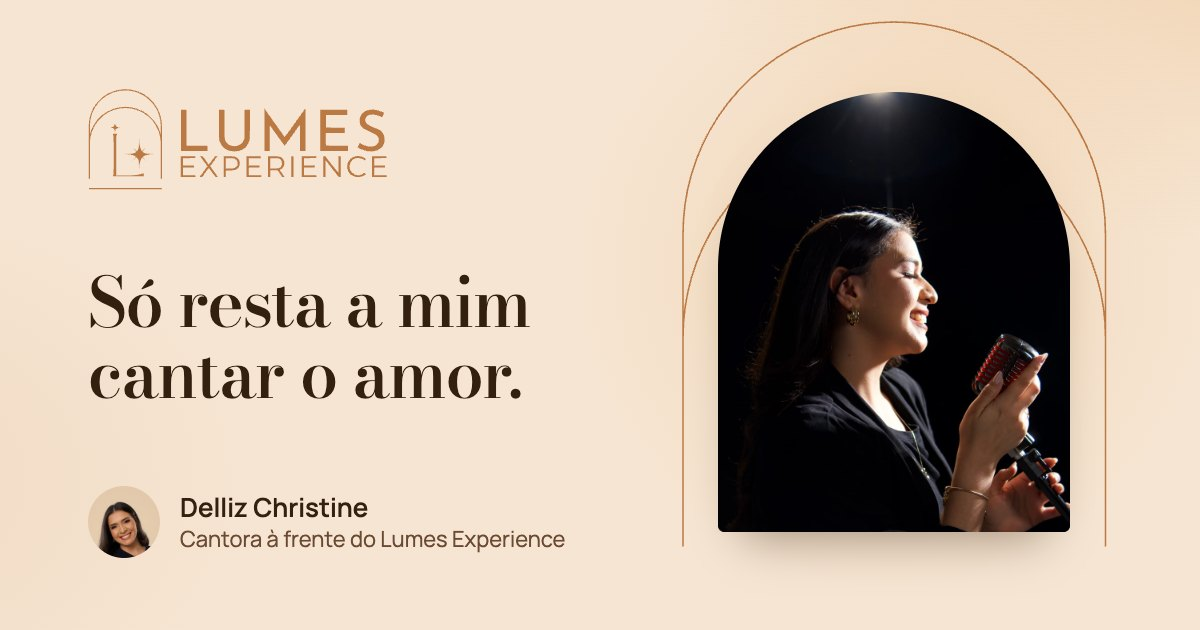
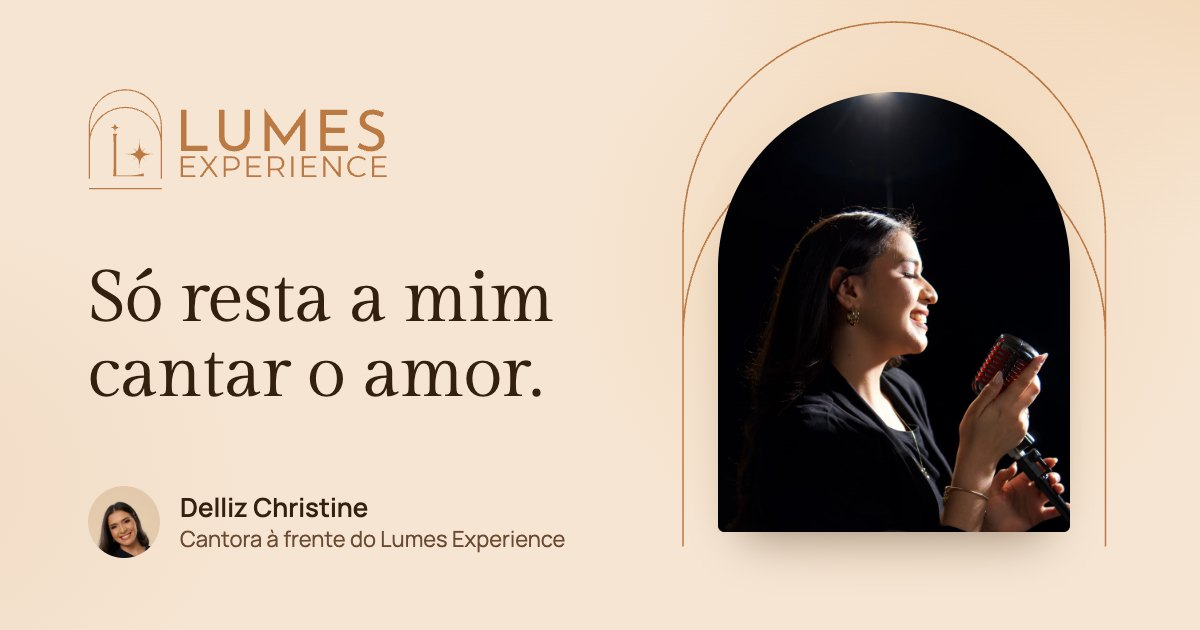
feat(site): títulos da página inicial em Gilda Display
- Escolha do dono entre Bodoni leve, Cormorant, Gilda e Marcellus: a Gilda
  Display (peso 400, "1" com bandeira) entra nos títulos e textos em serifa
  da página inicial, com reservas medidas (Georgia 100,9%, Times 110,5%);
  o blog continua em Bodoni Moda.
- Sai a prévia de fontes (?fonte=) e as fontes que não foram escolhidas.
- checar.mjs aceita só a diferença de --serif entre a página e o blog;
  imagem de compartilhamento da página inicial com o mote em Gilda;
  DESIGN.md e design.json atualizados.

Changed region(s): [[0.0617, 0.4222, 0.4625, 0.5429], [0.0617, 0.573, 0.4625, 0.6333]]

diff --git a/index.html b/index.html
@@ -37,8 +37,6 @@
     try {
       const busca = new URLSearchParams(location.search);
       if (busca.has('previa')) document.documentElement.classList.add('previa');
-      // Prévia de fontes para o dono escolher (04/11/2026): ?fonte=bodoni-leve|cormorant|gilda|marcellus.
-      if (/^(atual|bodoni-leve|cormorant|gilda|marcellus)$/.test(busca.get('fonte') || '')) document.documentElement.dataset.fonte = busca.get('fonte');
       const forcar = busca.has('abertura');
       let vista = 0;
       try { vista = Number(localStorage.getItem('abertura-vista')) || 0; } catch (e) {}
@@ -49,7 +47,7 @@
     } catch (e) {}
   </script>
 
-  <link rel="preload" href="assets/fonts/bodoni-moda.woff2" as="font" type="font/woff2" crossorigin>
+  <link rel="preload" href="assets/fonts/gilda-display.woff2" as="font" type="font/woff2" crossorigin>
   <link rel="preload" href="assets/fonts/manrope.woff2" as="font" type="font/woff2" crossorigin>
 
   <!-- Todo fato aqui precisa estar escrito, igual, no texto visível da página (regra do Google). -->
@@ -364,10 +362,12 @@
   </script>
 
   <style>
+    /* Títulos em Gilda Display (escolha do dono, 04/11/2026, entre Bodoni leve, Cormorant, Gilda e Marcellus).
+       Ela só tem o peso 400 e o "1" com bandeira; o blog continua em Bodoni Moda. */
     @font-face {
-      font-family: "Bodoni Moda";
-      src: url("assets/fonts/bodoni-moda.woff2") format("woff2");
-      font-weight: 400 700;
+      font-family: "Gilda Display";
+      src: url("assets/fonts/gilda-display.woff2") format("woff2");
+      font-weight: 400;
       font-style: normal;
       font-display: swap;
     }
@@ -379,21 +379,11 @@
       font-display: swap;
     }
 
-    /* Prévia de fontes dos títulos (?fonte=...). Sem o parâmetro, nenhuma destas é baixada. */
-    @font-face { font-family: "Cormorant Garamond"; src: url("assets/fonts/cormorant-garamond.woff2") format("woff2"); font-weight: 300 700; font-display: swap; }
-    @font-face { font-family: "Gilda Display"; src: url("assets/fonts/gilda-display.woff2") format("woff2"); font-weight: 400; font-display: swap; }
-    @font-face { font-family: "Marcellus"; src: url("assets/fonts/marcellus.woff2") format("woff2"); font-weight: 400; font-display: swap; }
-
-    /* O "1" do Bodoni Moda é idêntico ao "l" ("15 anos" lia "l5 anos"), e a fonte não tem alternativa.
-       Só esse algarismo vem de uma serifa do sistema, que tem a bandeira no alto; o resto continua Bodoni. */
-    @font-face { font-family: "Bodoni um"; src: local("Times New Roman"), local("TimesNewRomanPSMT"), local("Liberation Serif"); unicode-range: U+0031; size-adjust: 112%; }
-    @font-face { font-family: "Bodoni um Noto"; src: local("Noto Serif"), local("NotoSerif-Regular"); unicode-range: U+0031; size-adjust: 100%; }
-
-    /* Fontes do sistema com a largura ajustada à fonte da página: se ela chegar tarde,
-       as linhas quebram no mesmo lugar e o botão principal não pula (medido: 46 px sem isso). */
-    @font-face { font-family: "Bodoni reserva"; src: local("Noto Serif"), local("NotoSerif-Regular"); size-adjust: 96.5%; }
-    @font-face { font-family: "Bodoni reserva Georgia"; src: local("Georgia"); size-adjust: 103%; }
-    @font-face { font-family: "Bodoni reserva Times"; src: local("Times New Roman"), local("TimesNewRomanPSMT"), local("Liberation Serif"); size-adjust: 114.7%; }
+    /* Fontes do sistema com a largura ajustada à fonte da página: se ela chegar tarde, as linhas quebram no mesmo
+       lugar e nada pula (medido em 04/11/2026: a Gilda tem 100,9% da Georgia e 110,5% da Times). */
+    @font-face { font-family: "Gilda reserva"; src: local("Noto Serif"), local("NotoSerif-Regular"); size-adjust: 92.9%; }
+    @font-face { font-family: "Gilda reserva Georgia"; src: local("Georgia"); size-adjust: 100.9%; }
+    @font-face { font-family: "Gilda reserva Times"; src: local("Times New Roman"), local("TimesNewRomanPSMT"), local("Liberation Serif"); size-adjust: 110.5%; }
     @font-face { font-family: "Manrope reserva"; src: local("Roboto"), local("Roboto-Regular"); size-adjust: 102.5%; }
     @font-face { font-family: "Manrope reserva Arial"; src: local("Arial"), local("ArialMT"), local("Helvetica"), local("Liberation Sans"); size-adjust: 103.3%; }
 
@@ -449,7 +439,8 @@
         radial-gradient(circle at 86% 60%, color-mix(in srgb, var(--luz-clara) 70%, transparent) 0 1.5px, transparent 2.5px),
         radial-gradient(ellipse at 50% 100%, color-mix(in srgb, var(--luz) 18%, transparent), transparent 70%);
 
-      --serif: "Bodoni um", "Bodoni um Noto", "Bodoni Moda", "Bodoni reserva", "Bodoni reserva Georgia", "Bodoni reserva Times", serif;
+      --serif: "Gilda Display", "Gilda reserva", "Gilda reserva Georgia", "Gilda reserva Times", serif;
+      --peso-titulo: 400;
       --sans: "Manrope", "Manrope reserva", "Manrope reserva Arial", sans-serif;
 
       --largura: 72rem;
@@ -460,33 +451,6 @@
 
     *, *::before, *::after { box-sizing: border-box; }
 
-    /* ---------- Prévia de fontes (?fonte=...) ---------- */
-    [data-fonte="bodoni-leve"] { --peso-titulo: 400; }
-    [data-fonte="cormorant"] { --serif: "Cormorant Garamond", "Bodoni reserva Georgia", serif; --peso-titulo: 600; }
-    [data-fonte="gilda"] { --serif: "Gilda Display", "Bodoni reserva Georgia", serif; --peso-titulo: 400; }
-    [data-fonte="marcellus"] { --serif: "Marcellus", "Bodoni reserva Georgia", serif; --peso-titulo: 400; }
-    [data-fonte] :is(h1, h2, h3, .compromisso__nome, .depoimento blockquote, .pergunta summary, .amostra figcaption, .assinatura-voz, .delliz__texto p:first-child, .historia__fecho) { font-synthesis: none; }
-    /* A Cormorant desenha pequeno: sobe um pouco para ficar do mesmo tamanho visual. */
-    [data-fonte="cormorant"] :is(h1, h2, h3) { font-size-adjust: 0.5; }
-    .escolha-fonte { display: none; }
-    [data-fonte] .escolha-fonte {
-      position: fixed;
-      z-index: 40;
-      top: 0.5rem;
-      left: 50%;
-      translate: -50% 0;
-      display: flex;
-      flex-wrap: wrap;
-      justify-content: center;
-      gap: 0.25rem;
-      max-width: calc(100vw - 1rem);
-      padding: 0.35rem;
-      border-radius: 1.25rem;
-      background: var(--tinta-funda);
-      font: 600 0.8125rem/1 var(--sans);
-    }
-    .escolha-fonte a { display: inline-flex; align-items: center; min-height: 2.25rem; padding: 0 0.75rem; border-radius: 999px; color: var(--noite-texto); text-decoration: none; }
-    .escolha-fonte a[aria-current] { background: var(--luz); color: var(--tinta-funda); }
 
     /* O que o navegador desenha sozinho também segue a marca: barra de rolagem, toque, seleção, cursor. */
     html {
@@ -539,9 +503,10 @@
       text-wrap: balance;
       overflow-wrap: break-word;
       font-variant-numeric: lining-nums;
+      font-synthesis: none;
     }
 
-    /* O tamanho óptico automático do Bodoni deixa o fio fino demais abaixo de ~60px ("BH" vira "BII"). */
+    /* O tamanho óptico (opsz) só vale para fontes variáveis; a Gilda o ignora, e a regra fica para o caso de voltar ao Bodoni. */
     h1, h2, h3, .marca, .compromisso__nome, .depoimento blockquote, .pergunta summary, .amostra figcaption, .assinatura-voz {
       font-variation-settings: "opsz" var(--opsz, 24);
     }
@@ -1499,10 +1464,6 @@
 </head>
 <body>
   <a class="pular" href="#principal">Pular para o conteúdo</a>
-  <!-- Prévia de fontes para o dono (só aparece com ?fonte=...). Sai depois da escolha. -->
-  <nav class="escolha-fonte" aria-label="Prévia de fontes">
-    <a href="?fonte=atual#principal">Atual</a><a href="?fonte=bodoni-leve#principal">Bodoni leve</a><a href="?fonte=cormorant#principal">Cormorant</a><a href="?fonte=gilda#principal">Gilda</a><a href="?fonte=marcellus#principal">Marcellus</a>
-  </nav>
 
   <svg class="icones" width="0" height="0" aria-hidden="true">
     <symbol id="icone-whatsapp" viewBox="0 0 24 24"><path d="M17.472 14.382c-.297-.149-1.758-.867-2.03-.967-.273-.099-.471-.148-.67.15-.197.297-.767.966-.94 1.164-.173.199-.347.223-.644.075-.297-.15-1.255-.463-2.39-1.475-.883-.788-1.48-1.761-1.653-2.059-.173-.297-.018-.458.13-.606.134-.133.298-.347.446-.52.149-.174.198-.298.298-.497.099-.198.05-.371-.025-.52-.075-.149-.669-1.612-.916-2.207-.242-.579-.487-.5-.669-.51-.173-.008-.371-.01-.57-.01-.198 0-.52.074-.792.372-.272.297-1.04 1.016-1.04 2.479 0 1.462 1.065 2.875 1.213 3.074.149.198 2.096 3.2 5.077 4.487.709.306 1.262.489 1.694.625.712.227 1.36.195 1.871.118.571-.085 1.758-.719 2.006-1.413.248-.694.248-1.289.173-1.413-.074-.124-.272-.198-.57-.347m-5.421 7.403h-.004a9.87 9.87 0 01-5.031-1.378l-.361-.214-3.741.982.998-3.648-.235-.374a9.86 9.86 0 01-1.51-5.26c.001-5.45 4.436-9.884 9.888-9.884 2.64 0 5.122 1.03 6.988 2.898a9.825 9.825 0 012.893 6.994c-.003 5.45-4.437 9.884-9.885 9.884m8.413-18.297A11.815 11.815 0 0012.05 0C5.495 0 .16 5.335.157 11.892c0 2.096.547 4.142 1.588 5.945L.057 24l6.305-1.654a11.882 11.882 0 005.683 1.448h.005c6.554 0 11.89-5.335 11.893-11.893a11.821 11.821 0 00-3.48-8.413Z"/></symbol>
@@ -1864,9 +1825,6 @@ Momentos com música:</p>
 
       const reduzirMovimento = window.matchMedia('(prefers-reduced-motion: reduce)').matches;
 
-      // Prévia de fontes: marca a opção atual na barrinha.
-      const fonte = document.documentElement.dataset.fonte;
-      if (fonte) document.querySelectorAll('.escolha-fonte a').forEach((a) => { if (a.href.includes(`fonte=${fonte}#`)) a.setAttribute('aria-current', 'true'); });
 
       // Barra fixa no celular: aparece sempre que nenhum outro botão do WhatsApp está inteiro na tela, inclusive
       // na primeira dobra de um celular baixo (no Safari com as barras à mostra, o botão do topo pode ficar abaixo

diff --git a/DESIGN.md b/DESIGN.md
@@ -33,30 +33,30 @@ colors:
   anoitecer-3: "#8A4D24"
 typography:
   display:
-    fontFamily: "Bodoni um, Bodoni um Noto, Bodoni Moda, Bodoni reserva, Bodoni reserva Georgia, Bodoni reserva Times, serif"
+    fontFamily: "Gilda Display, Gilda reserva, Gilda reserva Georgia, Gilda reserva Times, serif"
     fontSize: "clamp(2.75rem, 1.9rem + 3.6vw, 3.25rem)"
-    fontWeight: 500
+    fontWeight: 400
     lineHeight: 1.02
     letterSpacing: "-0.015em"
     fontVariation: "\"opsz\" 48"
   display-largo:
-    fontFamily: "Bodoni um, Bodoni um Noto, Bodoni Moda, Bodoni reserva, Bodoni reserva Georgia, Bodoni reserva Times, serif"
+    fontFamily: "Gilda Display, Gilda reserva, Gilda reserva Georgia, Gilda reserva Times, serif"
     fontSize: "clamp(3.75rem, 1.25rem + 3.8vw, 4.75rem)"
-    fontWeight: 500
+    fontWeight: 400
     lineHeight: 1.02
     letterSpacing: "-0.015em"
     fontVariation: "\"opsz\" 48"
   porta:
-    fontFamily: "Bodoni um, Bodoni um Noto, Bodoni Moda, Bodoni reserva, Bodoni reserva Georgia, Bodoni reserva Times, serif"
+    fontFamily: "Gilda Display, Gilda reserva, Gilda reserva Georgia, Gilda reserva Times, serif"
     fontSize: "clamp(2.125rem, 1.4rem + 3vw, 3.75rem)"
-    fontWeight: 500
+    fontWeight: 400
     lineHeight: 1.04
     letterSpacing: "-0.01em"
     fontVariation: "\"opsz\" 48"
   evento:
-    fontFamily: "Bodoni um, Bodoni um Noto, Bodoni Moda, Bodoni reserva, Bodoni reserva Georgia, Bodoni reserva Times, serif"
+    fontFamily: "Gilda Display, Gilda reserva, Gilda reserva Georgia, Gilda reserva Times, serif"
     fontSize: "clamp(2rem, 1.45rem + 2.4vw, 3.25rem)"
-    fontWeight: 500
+    fontWeight: 400
     lineHeight: 1.04
     letterSpacing: "-0.01em"
     fontVariation: "\"opsz\" 48"
@@ -68,15 +68,15 @@ typography:
     letterSpacing: "-0.01em"
     fontVariation: "\"opsz\" 48"
   headline:
-    fontFamily: "Bodoni um, Bodoni um Noto, Bodoni Moda, Bodoni reserva, Bodoni reserva Georgia, Bodoni reserva Times, serif"
+    fontFamily: "Gilda Display, Gilda reserva, Gilda reserva Georgia, Gilda reserva Times, serif"
     fontSize: "clamp(2rem, 1.5rem + 2.2vw, 3rem)"
-    fontWeight: 500
+    fontWeight: 400
     lineHeight: 1.08
     fontVariation: "\"opsz\" 24"
   citacao-grande:
-    fontFamily: "Bodoni um, Bodoni um Noto, Bodoni Moda, Bodoni reserva, Bodoni reserva Georgia, Bodoni reserva Times, serif"
+    fontFamily: "Gilda Display, Gilda reserva, Gilda reserva Georgia, Gilda reserva Times, serif"
     fontSize: "clamp(1.625rem, 1.2rem + 1.8vw, 2.5rem)"
-    fontWeight: 500
+    fontWeight: 400
     lineHeight: 1.2
     fontVariation: "\"opsz\" 48"
   title:
@@ -86,27 +86,27 @@ typography:
     lineHeight: 1.1
     fontVariation: "\"opsz\" 24"
   lead-voz:
-    fontFamily: "Bodoni um, Bodoni um Noto, Bodoni Moda, Bodoni reserva, Bodoni reserva Georgia, Bodoni reserva Times, serif"
+    fontFamily: "Gilda Display, Gilda reserva, Gilda reserva Georgia, Gilda reserva Times, serif"
     fontSize: "clamp(1.375rem, 1.1rem + 1vw, 1.875rem)"
-    fontWeight: 500
+    fontWeight: 400
     lineHeight: 1.3
     fontVariation: "\"opsz\" 24"
   title-sm:
-    fontFamily: "Bodoni um, Bodoni um Noto, Bodoni Moda, Bodoni reserva, Bodoni reserva Georgia, Bodoni reserva Times, serif"
+    fontFamily: "Gilda Display, Gilda reserva, Gilda reserva Georgia, Gilda reserva Times, serif"
     fontSize: "clamp(1.375rem, 1.2rem + 0.6vw, 1.75rem)"
-    fontWeight: 500
+    fontWeight: 400
     lineHeight: 1.25
     fontVariation: "\"opsz\" 14"
   citacao:
-    fontFamily: "Bodoni um, Bodoni um Noto, Bodoni Moda, Bodoni reserva, Bodoni reserva Georgia, Bodoni reserva Times, serif"
+    fontFamily: "Gilda Display, Gilda reserva, Gilda reserva Georgia, Gilda reserva Times, serif"
     fontSize: "clamp(1.25rem, 1.1rem + 0.6vw, 1.5rem)"
-    fontWeight: 500
+    fontWeight: 400
     lineHeight: 1.3
     fontVariation: "\"opsz\" 14"
   legenda-serif:
-    fontFamily: "Bodoni um, Bodoni um Noto, Bodoni Moda, Bodoni reserva, Bodoni reserva Georgia, Bodoni reserva Times, serif"
+    fontFamily: "Gilda Display, Gilda reserva, Gilda reserva Georgia, Gilda reserva Times, serif"
     fontSize: "1.125rem"
-    fontWeight: 500
+    fontWeight: 400
     lineHeight: 1.35
     fontVariation: "\"opsz\" 14"
   lead:
@@ -243,7 +243,7 @@ O material é luz, sem ruído: halos radiais suaves de pêssego (`--textura-dia`
 - Dois mundos de fundo, dia (pêssego claro) e noite (terracota fechado), mais dois campos chapados da marca: a porta terracota e a porta acesa em pêssego. O pêssego pleno (`--pessego`) também é o fundo da abertura e da primeira dobra.
 - Terracota para agir no dia e sobre o pêssego, pêssego para agir na noite.
 - O terracota da marca (`--terracota-marca`) fica no logo, nos ornamentos e na porta terracota (só com texto grande em branco); texto e botões usam o terracota fechado (`--terracota`).
-- Bodoni Moda com tamanho óptico fixo para títulos e numerais; Manrope para o resto.
+- Gilda Display nos títulos da página inicial, Bodoni Moda (tamanho óptico fixo) no blog; Manrope para o resto.
 - Os dois arcos, a porta e a estrela de quatro pontas como assinatura. Nada de ícone genérico: a estrela da marca marca os eventos, os passos, as assinaturas e os espaços vazios.
 
 ## Colors
@@ -280,7 +280,7 @@ O terracota e o pêssego da identidade, abertos em tons de uso: um pêssego clar
 
 **A Regra da Cor que Age.** No dia e no pêssego, quem age é terracota; na noite, quem age é pêssego (`.botao--luz`). A barra fixa do celular segue a mesma regra.
 
-**A Regra do Root Único.** Os tokens de `:root` de `index.html` e de `assets/css/blog.css` são os mesmos; `scripts/checar.mjs` acusa qualquer divergência. Mude um, mude os dois.
+**A Regra do Root Único.** Os tokens de `:root` de `index.html` e de `assets/css/blog.css` são os mesmos, menos `--serif` (Gilda na página inicial, Bodoni no blog); `scripts/checar.mjs` acusa qualquer outra divergência. Mude um, mude os dois.
 
 **A Regra do Navegador Vestido.** O que o navegador desenha sozinho segue a marca:
 - seleção de texto em pêssego com tinta funda;
@@ -292,10 +292,10 @@ O terracota e o pêssego da identidade, abertos em tons de uso: um pêssego clar
 
 ## Typography
 
-**Display Font:** Bodoni Moda (com o "1" de uma serifa do sistema e as reservas Noto Serif, Georgia ou Times com `size-adjust`)
+**Display Font:** Gilda Display na página inicial (escolha do dono em 04/11/2026, só o peso 400, com as reservas Noto Serif, Georgia ou Times medidas com `size-adjust`); Bodoni Moda no blog e nas capas (com o "1" de uma serifa do sistema)
 **Body Font:** Manrope (com Manrope reserva: Roboto ou Arial com `size-adjust`)
 
-**Character:** O Bodoni de alto contraste conversa com o L da identidade; a Manrope, geométrica e calma, carrega o texto, os botões e os metadados. O LUMES e o EXPERIENCE do logo não são fonte: são vetores traçados da identidade (`scripts/blog/marca.mjs`).
+**Character:** A Gilda Display, didone delicada e de contraste mais calmo, dá aos títulos da página inicial o tom de convite que o dono pediu ("uma fonte mais elegante"); o Bodoni de alto contraste continua no blog e conversa com o L da identidade; a Manrope, geométrica e calma, carrega o texto, os botões e os metadados. O LUMES e o EXPERIENCE do logo não são fonte: são vetores traçados da identidade (`scripts/blog/marca.mjs`).
 
 ### Hierarchy
 - **Display** (opsz 48): só o h1 do topo, com largura máxima de 8,5em; `clamp(2.75rem, 1.9rem + 3.6vw, 3.25rem)` no celular e `clamp(3.75rem, 1.25rem + 3.8vw, 4.75rem)` a partir de 60rem.
@@ -315,9 +315,11 @@ O terracota e o pêssego da identidade, abertos em tons de uso: um pêssego clar
 - **Meta** (0,9375rem), **nota** (0,875rem) e **selo** (600, 0,75rem).
 
 ### Named Rules
-**A Regra do Tamanho Óptico Fixo.** O Bodoni nunca usa o tamanho óptico automático, que afina o traço demais abaixo de ~60px ("BH" vira "BII"). Todo título e numeral declara `font-variation-settings: "opsz" var(--opsz)`: 48 no display, na porta, nos eventos e na citação grande; 24 por padrão; 14 nos títulos pequenos, perguntas e legendas.
+**A Regra da Fonte dos Títulos.** Na página inicial, todo título e texto em serifa usa a Gilda Display, sempre em 400 e com `font-synthesis: none` (sem negrito falso). No blog e nas capas, o Bodoni Moda. O `scripts/checar.mjs` aceita só essa diferença entre os dois `:root` (`--serif`).
 
-**A Regra do Um.** No Bodoni Moda o "1" é idêntico ao "l" ("15 anos" lia "l5 anos") e a fonte não tem alternativa. O `@font-face` "Bodoni um" (Times New Roman, Liberation Serif) e "Bodoni um Noto" (Android) troca só o U+0031, com `unicode-range` e `size-adjust`. Ficam na frente de `--serif`; sem a fonte no aparelho, vale o Bodoni.
+**A Regra do Tamanho Óptico Fixo.** No blog, o Bodoni nunca usa o tamanho óptico automático, que afina o traço demais abaixo de ~60px ("BH" vira "BII"). Todo título e numeral declara `font-variation-settings: "opsz" var(--opsz)`: 48 no display, na porta, nos eventos e na citação grande; 24 por padrão; 14 nos títulos pequenos, perguntas e legendas.
+
+**A Regra do Um.** No Bodoni Moda (blog) o "1" é idêntico ao "l" ("15 anos" lia "l5 anos") e a fonte não tem alternativa. O `@font-face` "Bodoni um" (Times New Roman, Liberation Serif) e "Bodoni um Noto" (Android) troca só o U+0031, com `unicode-range` e `size-adjust`. Ficam na frente de `--serif`; sem a fonte no aparelho, vale o Bodoni.
 
 **A Regra da Fonte Reserva Medida.** Toda fonte tem reservas locais com `size-adjust` medido, para que a troca não mova linhas nem o botão principal.
 
